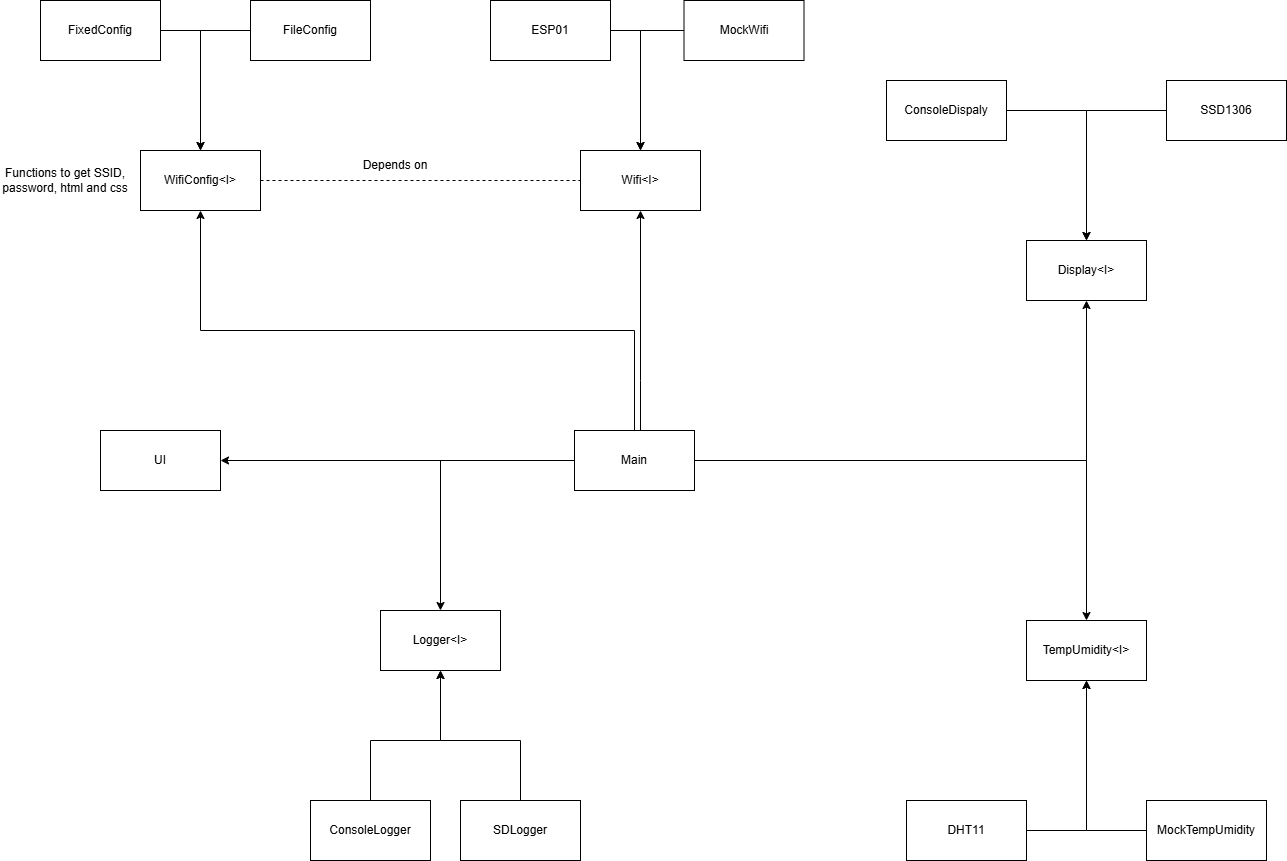
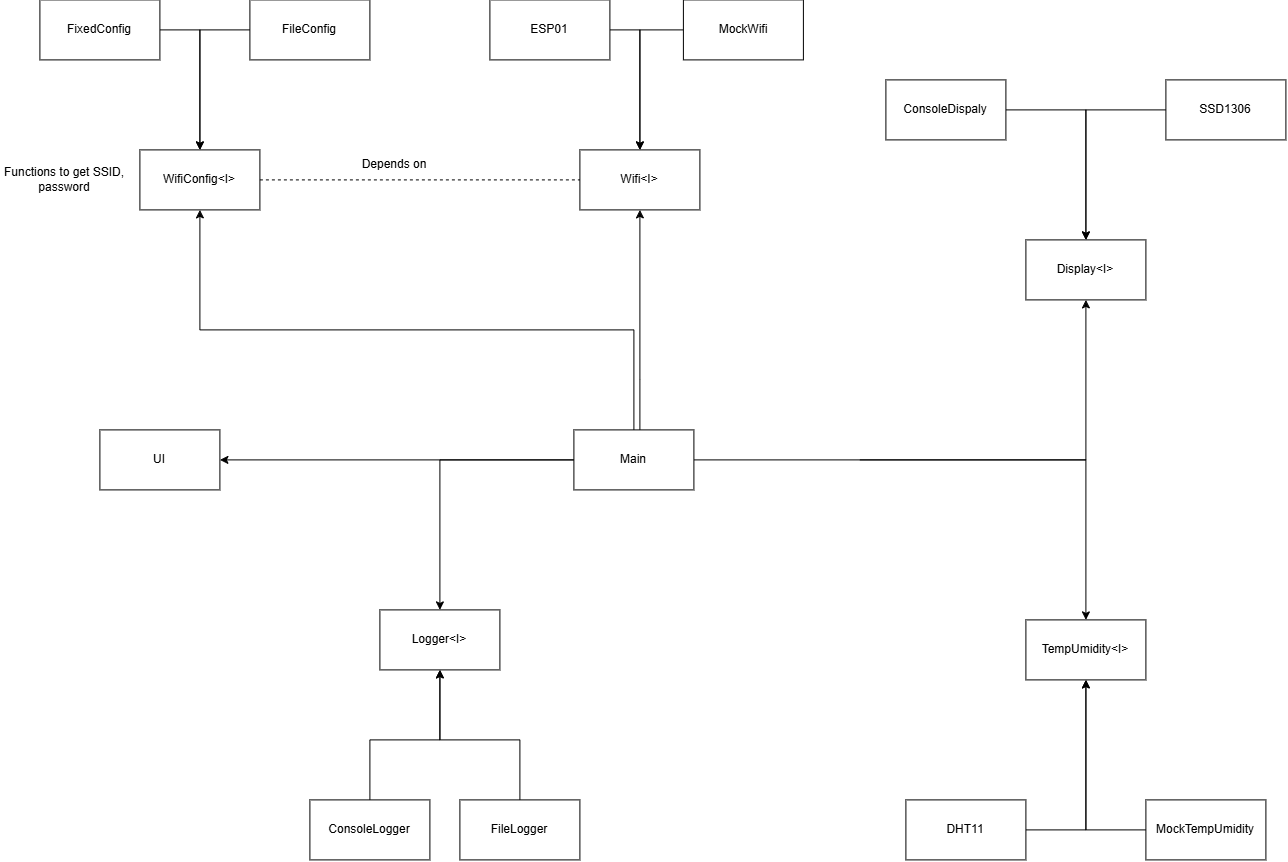
refactor: standardize module names

diff --git a/lib/consoleLogger/src/consoleLogger.c b/lib/consoleLogger/src/consoleLogger.c
@@ -1,41 +1,20 @@
-#include "consoleLogger.h"
-#include "logger.h"
+#include "ConsoleLogger.h"
+#include "Logger.h"
 
 #include <stdio.h>
 #include <stdlib.h>
 
-void logInit() {
-    FILE* file = fopen(LOG_FILENAME, "r");
-    if (file == NULL) {
-        char header[100];
-        buildLogHeader(header);
+void LogInit() {
+    char header[100];
+    buildLogHeader(header);
         
-        file = fopen(LOG_FILENAME, "w");
-        
-        fputs(header, file);
-        fputs("\n", file);
-
-        fclose(file);
-    }
+    printf("Init Console Logger\n");
+    printf("%s\n", header);    
 }
 
-void logInfo(log_info* info) {
+void LogInfo(log_info* info) {
     char line[100];
 
     buildLogMessage(line, info);
     printf(line);
-
-    FILE* file = fopen(LOG_FILENAME, "r");
-    if (file == NULL) {
-        printf("The logger must be initialized with logInit()\n");
-        return;
-    }
-    fclose(file);
-
-    file = fopen(LOG_FILENAME, "a");
-
-    fputs(line, file);
-    fputs("\n", file);
-
-    fclose(file);
 }

diff --git a/main.c b/main.c
@@ -5,8 +5,8 @@
 
 
 
-#include "display.h"
-#include "ui.h"
+#include "Display.h"
+#include "UI.h"
 #include "TempHumidity.h"
 #include "logger.h"
 
@@ -53,10 +53,10 @@ int main() {
     temp_humidity_reading reading = {};
 
     InitUi(buf);        
-    displayInit();
+    DisplayInit();
 
     WriteUi(buf, &options);
-    displayRender(buf, &area);
+    DisplayRender(buf, &area);
 
 
     if (!fs_init()) {
@@ -66,7 +66,7 @@ int main() {
     }
 
     WriteUi(buf, &options);
-    displayRender(buf, &area);
+    DisplayRender(buf, &area);
 
     wifi_config config;
     GetWifiConfig(&config);
@@ -81,7 +81,7 @@ int main() {
     }
 
     InitTempHumidity();
-    logInit();
+    LogInit();
     //logInfo(&info);
 
     // Delete the code below later
@@ -126,7 +126,7 @@ int main() {
         options.umidity = (int) reading.humidity;
 
         WriteUi(buf, &options);
-        displayRender(buf, &area);
+        DisplayRender(buf, &area);
 
         if (WebPoll(&reading)) {
             printf("Client hit");

diff --git a/tests/main_test.c b/tests/main_test.c
@@ -3,7 +3,7 @@
 #include <stdbool.h>
 
 #include "display.h"
-#include "ui.h"
+#include "UI.h"
 #include "TempHumidity.h"
 #include "logger.h"
 #include "Wifi.h"
@@ -19,8 +19,8 @@ void testLogger() {
         .year = 2026
     };
 
-    logInit();
-    logInfo(&info);
+    LogInit();
+    LogInfo(&info);
 }
 
 void testUiWrites() {
@@ -47,8 +47,8 @@ void testUiWrites() {
     InitUi(buf);
     WriteUi(buf, &options);
     
-    displayInit();
-    displayRender(buf, &area);
+    DisplayInit();
+    DisplayRender(buf, &area);
 
     options.sd = true;
     options.wifi = true;
@@ -61,7 +61,7 @@ void testUiWrites() {
     options.year = 1;
 
     WriteUi(buf, &options);
-    displayRender(buf, &area);
+    DisplayRender(buf, &area);
 }
 
 void testTempHumidity() {

diff --git a/lib/ssd1306/src/ssd1306.c b/lib/ssd1306/src/ssd1306.c
@@ -1,4 +1,4 @@
-#include "display.h"
+#include "Display.h"
 #include "ssd1306.h"
 
 #include "pico/stdlib.h"
@@ -48,7 +48,7 @@ static void SSD1306_send_buf(uint8_t buf[], int buflen) {
     free(temp_buf);
 }
 
-void displayInit() {
+void DisplayInit() {
     i2c_init(OLED_I2C, OLED_I2C_CLK * 1000);
     gpio_set_function(OLED_SDA, GPIO_FUNC_I2C);
     gpio_set_function(OLED_SCK, GPIO_FUNC_I2C);
@@ -97,7 +97,7 @@ void displayInit() {
     SSD1306_send_cmd_list(cmds, sizeof(cmds)/sizeof((cmds)[0]));
 }
 
-void displayRender(uint8_t *buf, render_area *area) {
+void DisplayRender(uint8_t *buf, render_area *area) {
     // update a portion of the display with a render area
     uint8_t cmds[] = {
         SSD1306_SET_COL_ADDR,

diff --git a/lib/consoleDisplay/src/consoleDisplay.c b/lib/consoleDisplay/src/consoleDisplay.c
@@ -1,5 +1,5 @@
-#include "consoleDisplay.h"
-#include "display.h"
+#include "ConsoleDisplay.h"
+#include "Display.h"
 
 #include <stdio.h>
 #include <stdbool.h>
@@ -11,11 +11,11 @@ static void printLine() {
     printf("\n");
 }
 
-void displayInit() {
+void DisplayInit() {
     printf("Init console display");
 }
 
-void displayRender(uint8_t *buf, render_area *area) {
+void DisplayRender(uint8_t *buf, render_area *area) {
     printLine();
 
     for (int y = 0; y < BUF_HEIGHT * 8; y++) {

diff --git a/lib/FileLogger/src/FileLogger.c b/lib/FileLogger/src/FileLogger.c
@@ -1,10 +1,10 @@
-#include "SDLogger.h"
+#include "FileLogger.h"
 #include "logger.h"
 
 #include <stdio.h>
 #include <string.h>
 
-void logInit() {
+void LogInit() {
     printf("Initialize SD Logger\n");
 
     FILE* file = fopen(LOG_FILENAME, "r");
@@ -21,7 +21,7 @@ void logInit() {
     }
 }
 
-void logInfo(log_info* info) {
+void LogInfo(log_info* info) {
     char line[100];
 
     buildLogMessage(line, info);

diff --git a/lib/Display/include/Display.h b/lib/Display/include/Display.h
@@ -14,8 +14,8 @@ typedef struct render_area {
 
 void calc_render_area_buflen(render_area *area);
 
-void displayInit();
-void displayRender(uint8_t *buf, render_area *area);
+void DisplayInit();
+void DisplayRender(uint8_t *buf, render_area *area);
 
 
 #endif

diff --git a/lib/logger/include/logger.h b/lib/logger/include/logger.h
@@ -17,7 +17,7 @@ typedef struct log_info {
 void buildLogHeader(char* header);
 void buildLogMessage(char* line, log_info* info);
 
-void logInit();
-void logInfo(log_info* info);
+void LogInit();
+void LogInfo(log_info* info);
 
 #endif

diff --git a/lib/ui/src/ui.c b/lib/ui/src/ui.c
@@ -1,4 +1,4 @@
-#include "ui.h"
+#include "UI.h"
 
 #include <assert.h>
 #include <stdlib.h>

diff --git a/README.md b/README.md
@@ -28,31 +28,31 @@ project
 │  │  └─ temp_font_spritesheet.bmp
 │  └─ pico_pinout.svg
 ├─ lib
-│  ├─ consoleDisplay
+│  ├─ ConsoleDisplay
 │  │  ├─ include
-│  │  │  └─ consoleDisplay.h
+│  │  │  └─ ConsoleDisplay.h
 │  │  └─ src
-│  │     └─ consoleDisplay.c
-│  ├─ consoleLogger
+│  │     └─ ConsoleDisplay.c
+│  ├─ ConsoleLogger
 │  │  ├─ include
-│  │  │  └─ consoleLogger.h
+│  │  │  └─ ConsoleLogger.h
 │  │  └─ src
-│  │     └─ consoleLogger.c
+│  │     └─ ConsoleLogger.c
 │  ├─ DHT11
 │  │  ├─ include
 │  │  │  └─ DHT11.h
 │  │  └─ src
 │  │     └─ DHT11.c
-│  ├─ display
-│  │  └─ display.h
+│  ├─ Display
+│  │  └─ Display.h
 │  ├─ Esp01
 │  │  └─ src
 │  │     └─ Esp01.c
-│  ├─ logger
+│  ├─ Logger
 │  │  ├─ include
-│  │  │  └─ logger.h
+│  │  │  └─ Logger.h
 │  │  └─ src
-│  │     └─ logger.c
+│  │     └─ Logger.c
 │  ├─ MockTempHumidity
 │  │  └─ src
 │  │     └─ MockTempHumidity.c
@@ -61,29 +61,29 @@ project
 │  │  └─ src
 │  │     └─ MockWifi.c
 │  ├─ pico-vfs
-│  ├─ SDLogger
+│  ├─ FileLogger
 │  │  ├─ include
-│  │  │  └─ SDLogger.h
+│  │  │  └─ FileLogger.h
 │  │  └─ src
-│  │     └─ SDLogger.c
-│  ├─ ssd1306
+│  │     └─ FileLogger.c
+│  ├─ SSD1306
 │  │  ├─ include
-│  │  │  └─ ssd1306.h
+│  │  │  └─ SSD1306.h
 │  │  └─ src
-│  │     └─ ssd1306.c
+│  │     └─ SSD1306.c
 │  ├─ TempHumidity
 │  │  ├─ include
 │  │  │  └─ TempHumidity.h
 │  │  └─ src
-│  ├─ ui
+│  ├─ UI
 │  │  ├─ include
 │  │  │  ├─ full_screen.h
 │  │  │  ├─ on_off_icons.h
 │  │  │  ├─ small_numbers.h
 │  │  │  ├─ temp_numbers.h
-│  │  │  └─ ui.h
+│  │  │  └─ UI.h
 │  │  └─ src
-│  │     └─ ui.c
+│  │     └─ UI.c
 │  ├─ Wifi
 │  │  └─ include
 │  │     └─ Wifi.h
@@ -118,11 +118,11 @@ project
 
 * **UI:** Stores and manages the UI elements and their current values, including temperature, humidity, Wi-Fi status, SD card status, and date and time.
 
-* **Logger:** An abstract class that defines the logging interface and common functionality shared by concrete logger implementations.
+* **Logger:** An abstract class that defines the logging interface and common functionality shared by concrete Logger implementations.
 
 * **ConsoleLogger:** A concrete implementation of `Logger` that outputs log information using `printf`. It is intended for testing purposes.
 
-* **SDLogger:** A concrete implementation of `Logger` that stores log information in a CSV file on the SD card.
+* **FileLogger:** A concrete implementation of `Logger` that stores log information in a CSV file on the SD card.
 
 * **Display:** An interface that defines the display operations implemented by concrete display classes.
 
@@ -153,11 +153,11 @@ The `tests/` folder contains a CMake project used to build the test program. The
 
 The build generates several static libraries used by the tests:
 
-* `ui.lib`
-* `consoleDisplay.lib`
+* `UI.lib`
+* `ConsoleDisplay.lib`
 * `WifiFixedConfig.lib`
 * `MockWifi.lib`
-* `consoleLogger.lib`
+* `ConsoleLogger.lib`
 * `MockTempHumidity.lib`
 
 To configure and build the test project, run:
@@ -178,11 +178,11 @@ The project root folder contains a CMake project used to build the firmware for 
 
 The build generates several static libraries used by the application:
 
-* `libui.a`
-* `libssd1306.a`
+* `libUI.a`
+* `libSSD1306.a`
 * `libWifiFileConfig.a`
 * `libEsp01.a`
-* `libSDLogger.a`
+* `libFileLogger.a`
 * `libDHT11.a`
 
 Before configuring the project, load the Pico SDK environment by running:
